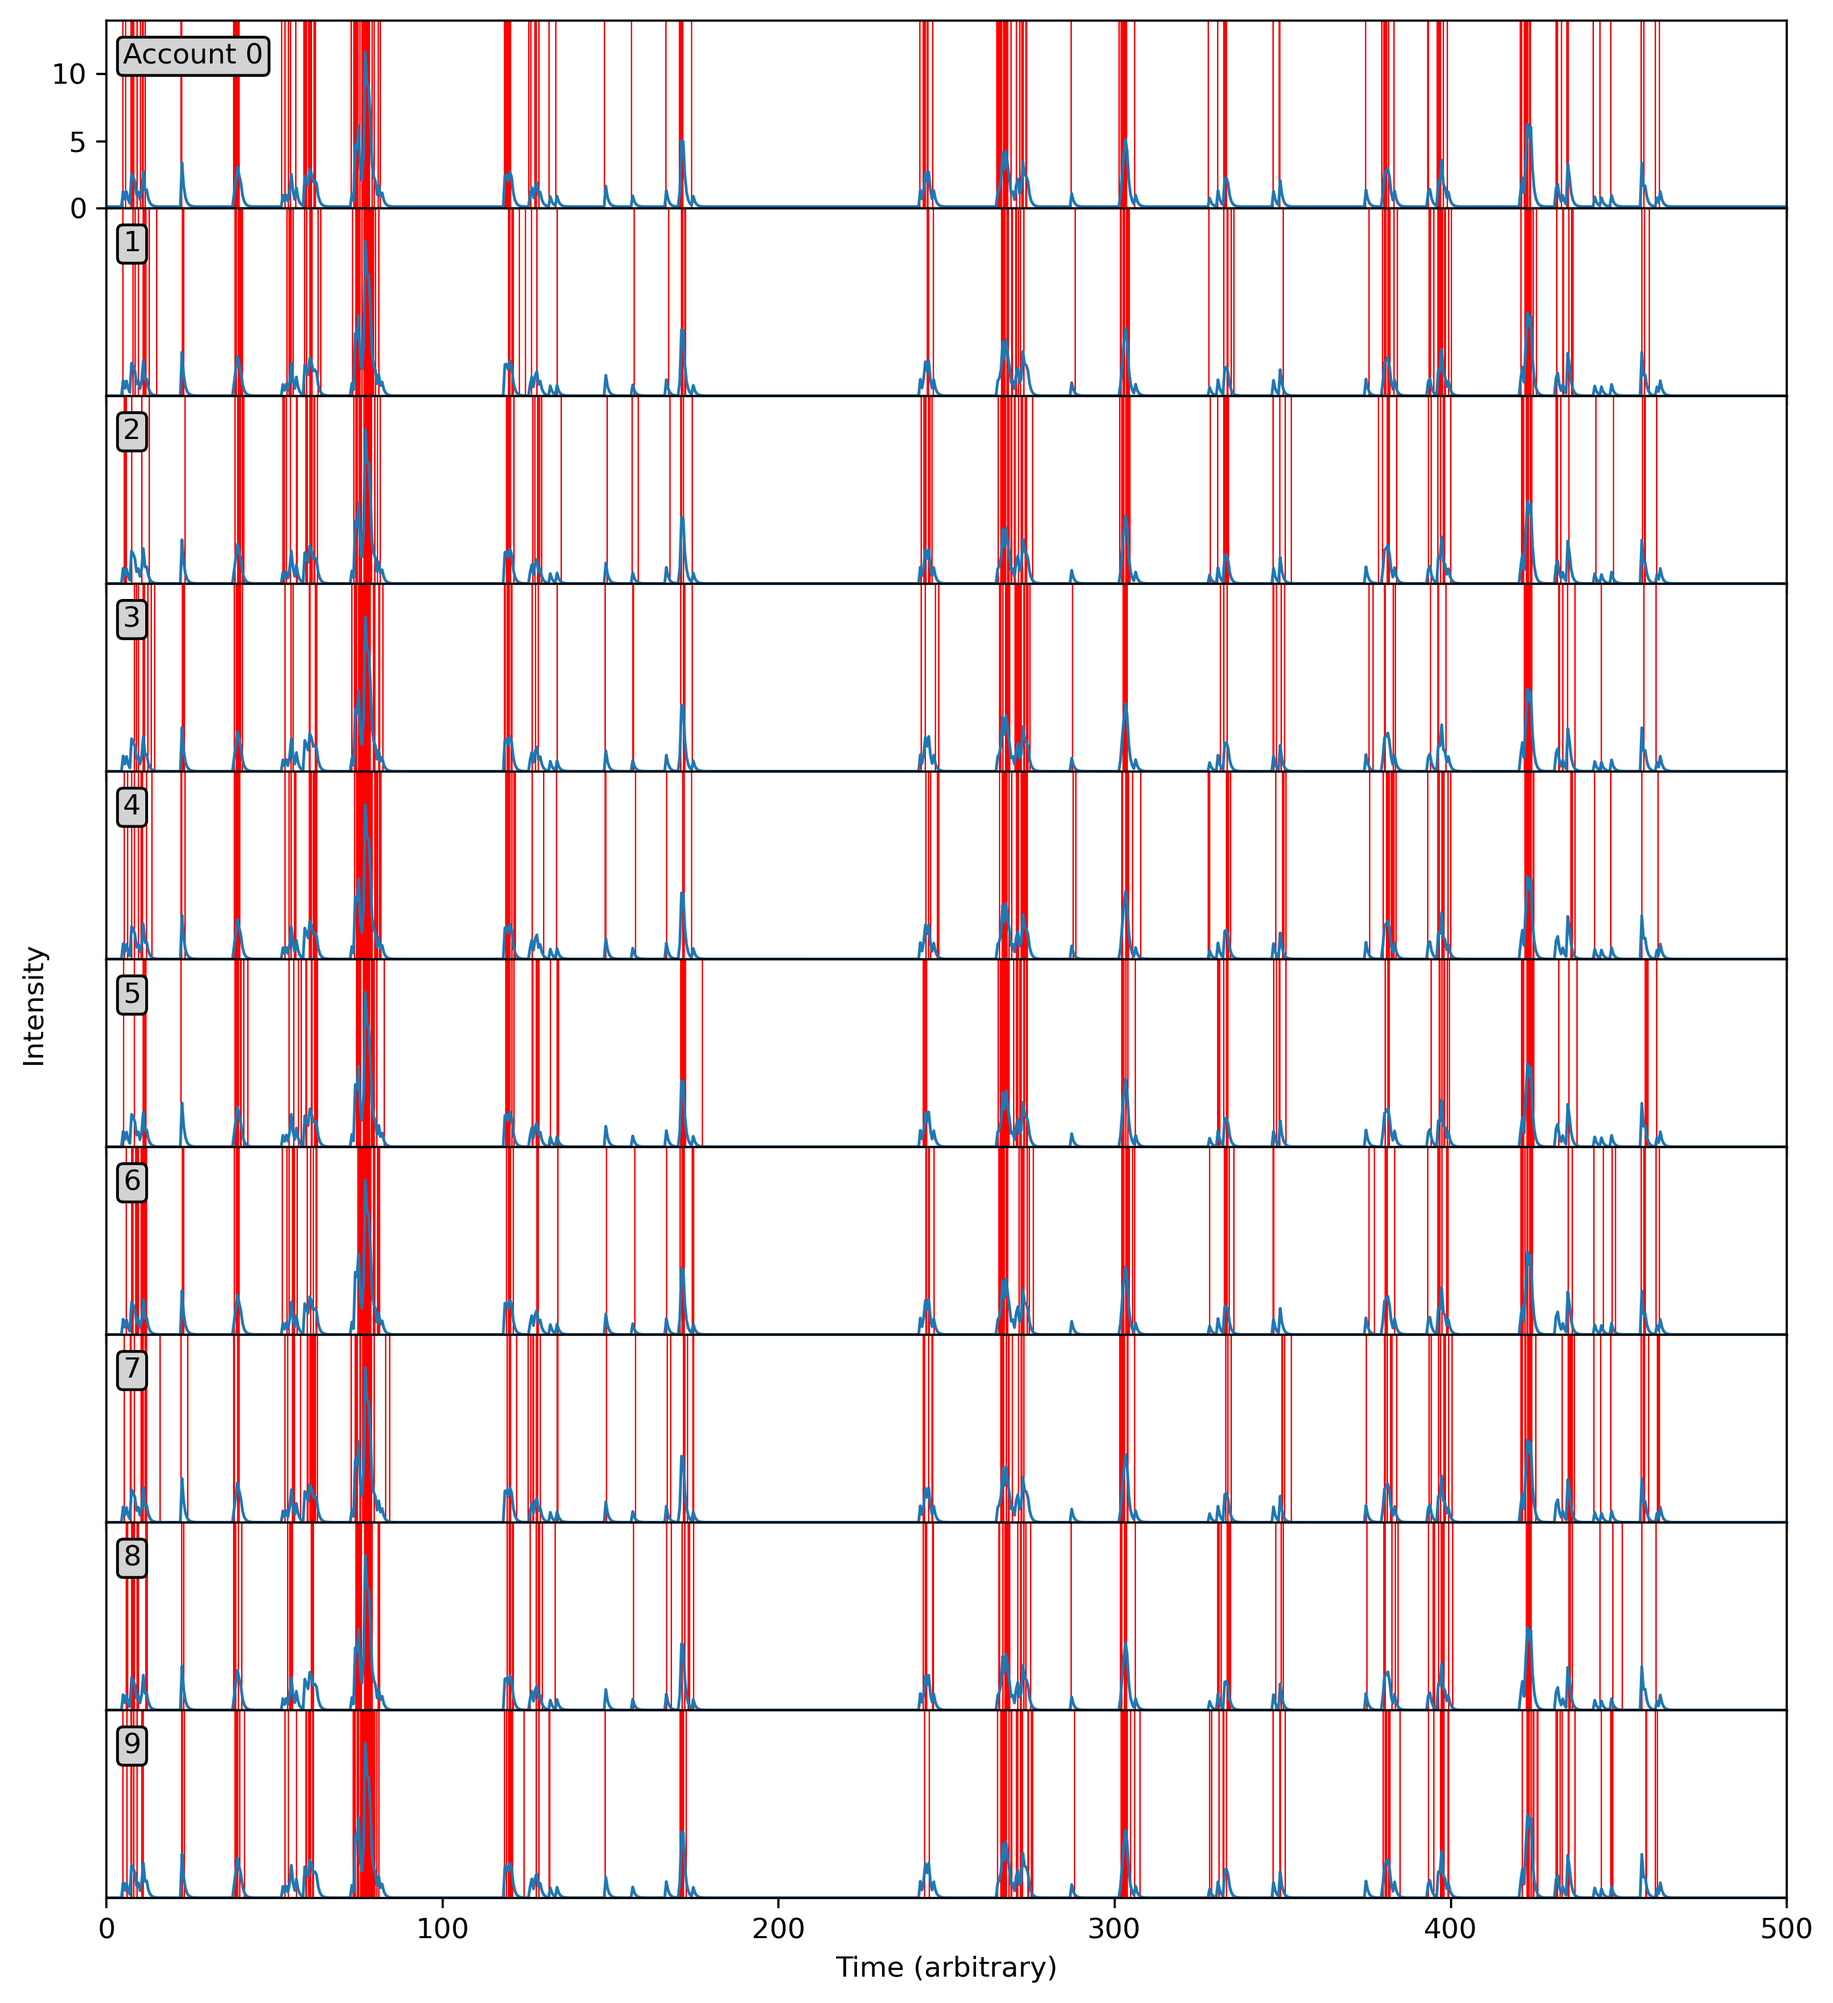
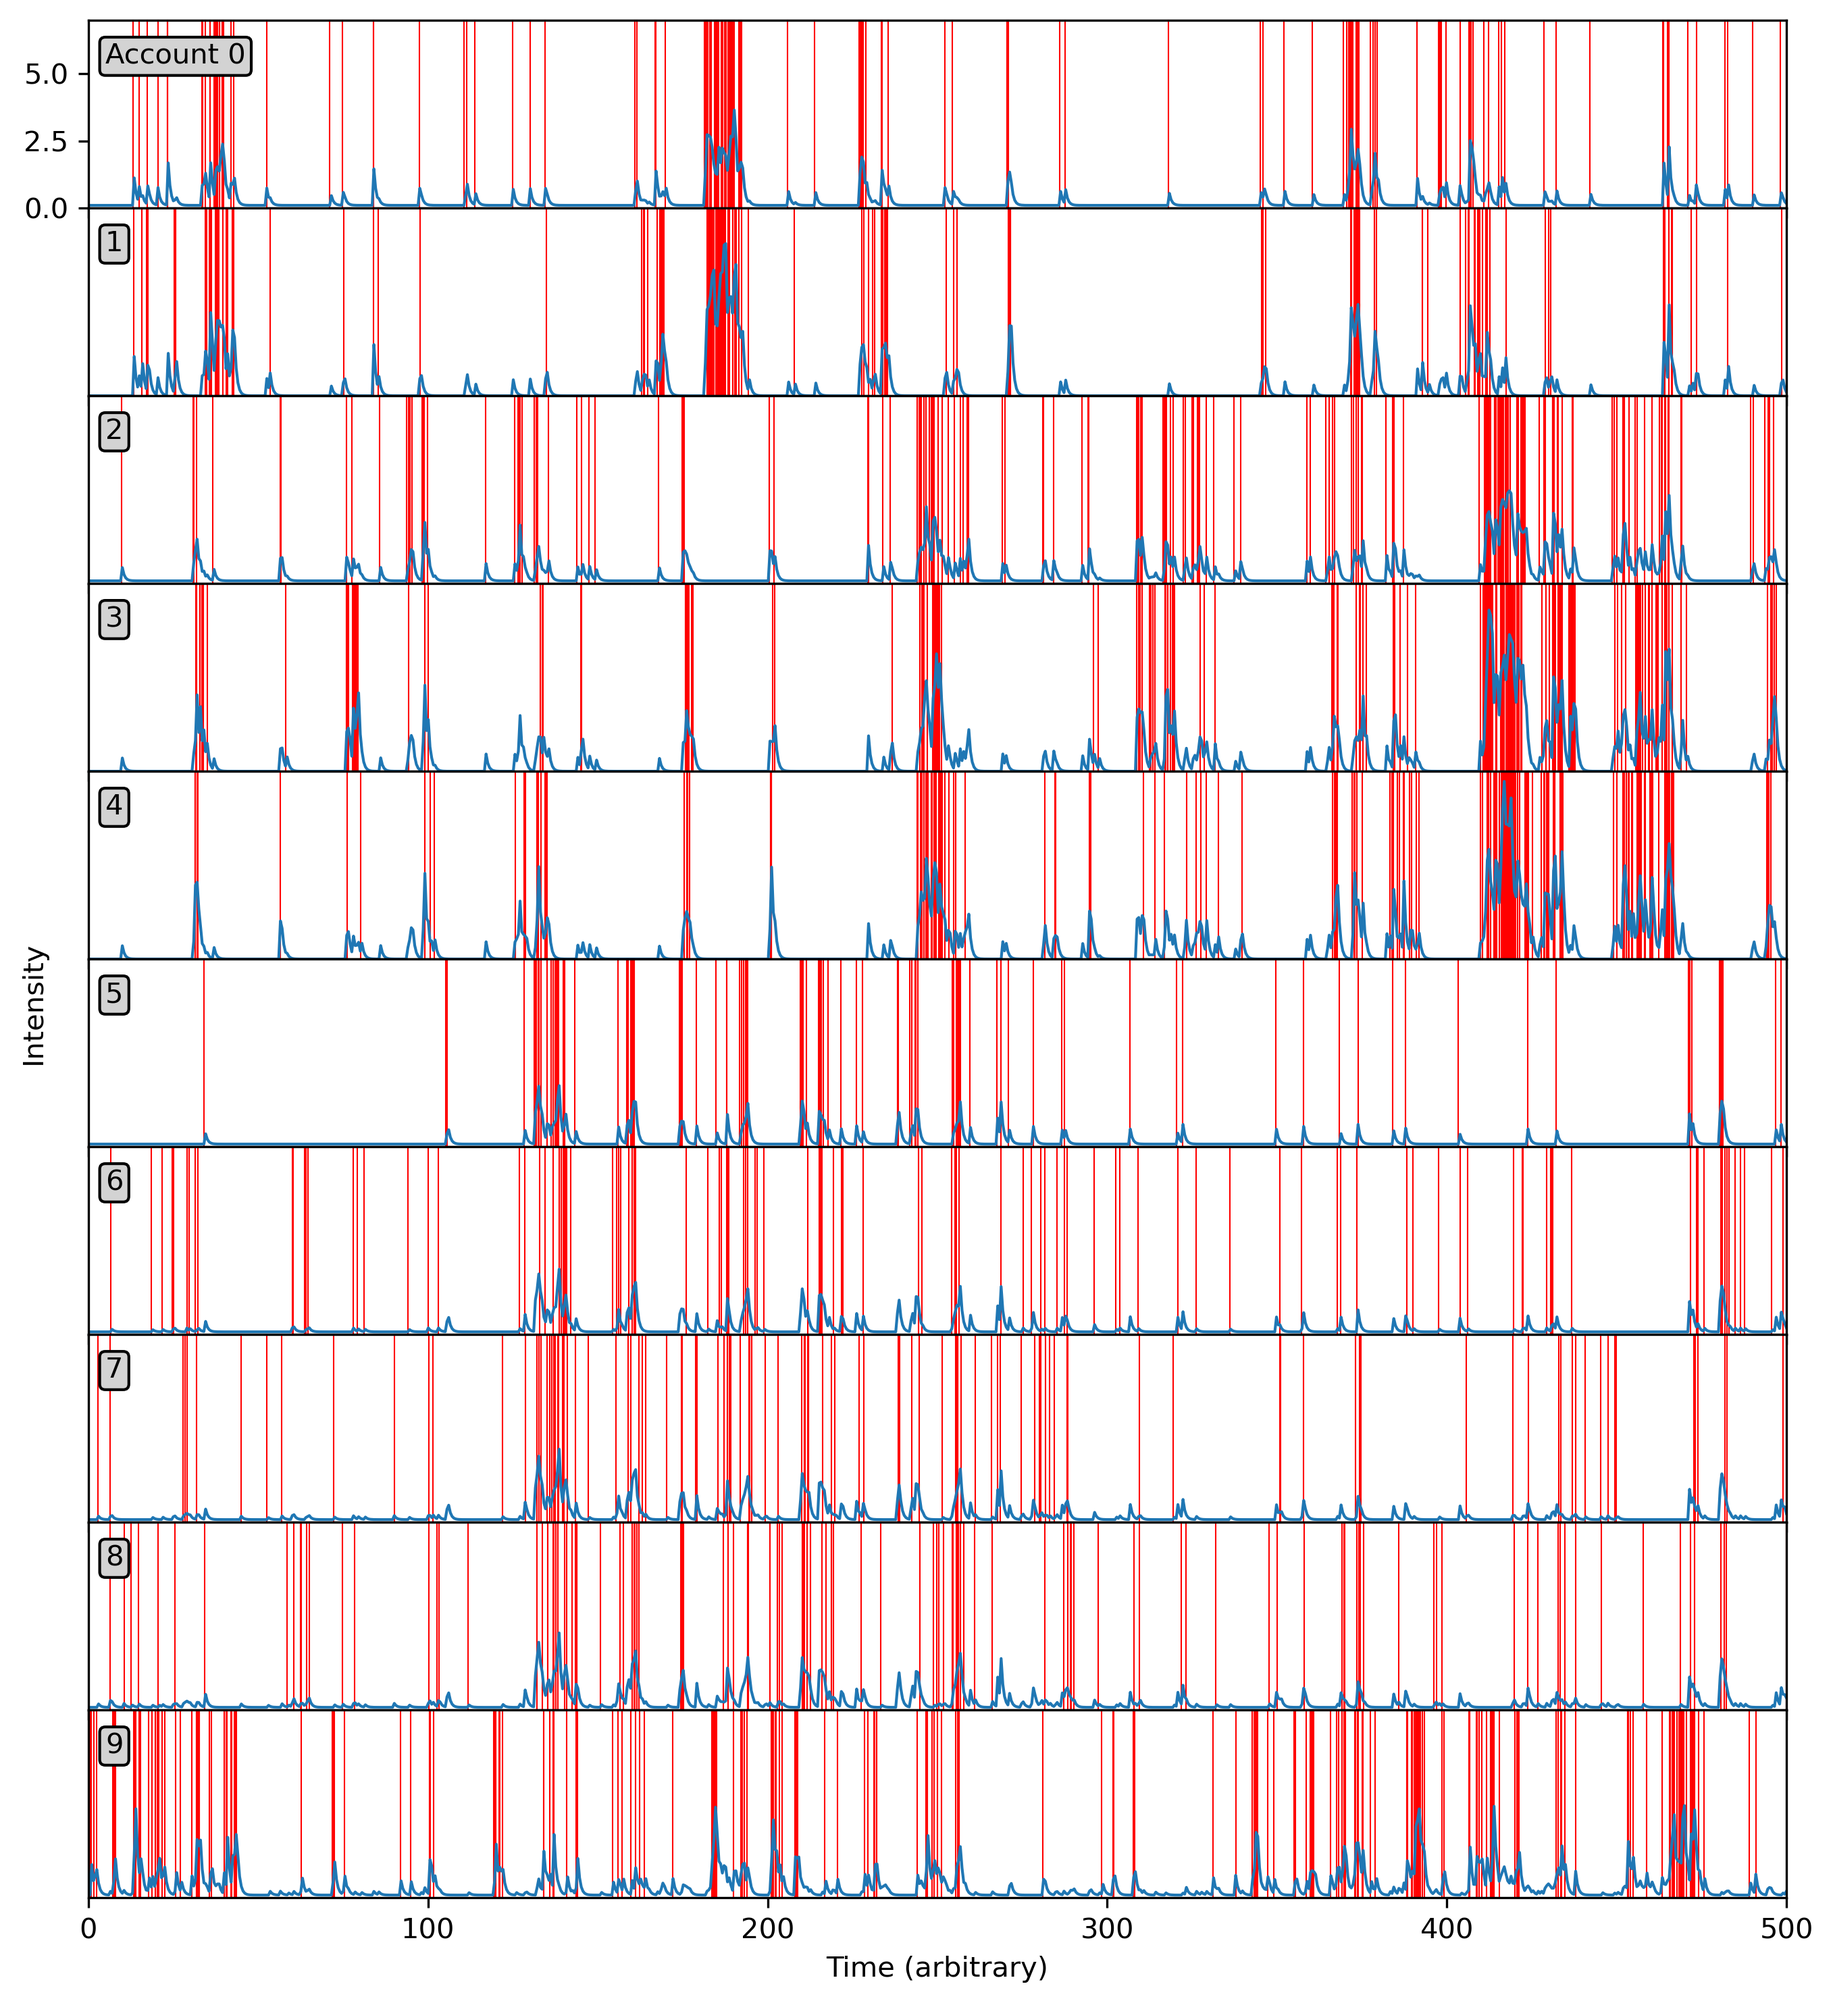
fixed mu grad

Changed region(s): [[0.031, 0.0, 0.9595, 0.9926], [0.9595, 0.2481, 0.9904, 0.4032], [0.9595, 0.4343, 0.9904, 0.4963]]

diff --git a/src/hawkes/models/hawkes_base.py b/src/hawkes/models/hawkes_base.py
@@ -84,6 +84,7 @@ class HawkesNLL(torch.autograd.Function):
 
         intensity, gamma, ti, mi = ctx.saved_tensors
         M, K, T = ctx.M, ctx.K, ctx.T
+        N = ti.shape[1]
 
         dti = ti - torch.cat([ti[:, 0:1, :], ti[:, 0:-1, :]], dim=1)  # Shape: [1, N, 1]
         exp_decay = torch.exp(-gamma * dti).permute(2, 1, 0)  # Shape: [K, N, 1]
@@ -165,18 +166,25 @@ class HawkesNLL(torch.autograd.Function):
         #         )
 
         # Compute mu gradient; only depends on each node type's intensity
-        mu_grad = (
-            torch.tensor(
-                [λp.reciprocal().sum() for λp in intensity_split], device=ti.device
-            )
-            - T
+        mu_grad = torch.tensor(
+            [λp.reciprocal().sum() - T for λp in intensity_split], device=ti.device
         )  # Shape: [M]
 
+        # DEBUG: debugging mu_grad
         # print(mu_grad)
         # _mu_grad = [-T for _ in range(M)]
         # for i, m in enumerate(mi):
         #     _mu_grad[m] += 1 / intensity[i]
         # print(torch.tensor(_mu_grad, device=ti.device))
+        # exit(1)
+        # cts = [0] * M
+        # for p in range(M):
+        #     for m in mi:
+        #         if m == p:
+        #             cts[p] += 1
+        # for s, i in zip(states_split, intensity_split):
+        #     print(s.shape, i.shape)
+        # print(cts)
         # exit(1)
 
         # Compute alpha gradient components using intensity and prefix matrices
@@ -190,7 +198,7 @@ class HawkesNLL(torch.autograd.Function):
         exp_decay_sum = torch.stack(
             [-torch.expm1(-gamma * (T - tiq)).sum(dim=1) for tiq in ti_split],
             dim=1,
-        )  # Shape: [1, M, K]
+        )  # Shape: [M, K]
         alpha_grad = (intensity_state_sum - exp_decay_sum).permute(2, 0, 1)
 
         # TODO: Handle parametrized gamma case
@@ -199,10 +207,10 @@ class HawkesNLL(torch.autograd.Function):
         # print(mu_grad, alpha_grad)
         # exit(1)
 
-        # Return negative of log-likelihood gradient
+        # Return negative of log-likelihood gradient scaled by 1/N
         return (
-            -mu_grad * grad_output,
-            -alpha_grad * grad_output,
+            -mu_grad * grad_output / N,
+            -alpha_grad * grad_output / N,
             gamma_grad,
         ) + (None,) * 7
 
@@ -388,13 +396,13 @@ class HawkesBase(torch.nn.Module, ABC):
 
             # Calculate NLL across entire data and perform the backward pass
             nll = self.nll(T, ti, mi)
-            torchviz.make_dot(
-                nll,
-                params=dict(list(self.named_parameters())),
-                show_attrs=True,
-                show_saved=True,
-            ).render("autograd", format="png")
-            nll.backward()
+            # torchviz.make_dot(
+            #     nll,
+            #     params=dict(list(self.named_parameters())),
+            #     show_attrs=True,
+            #     show_saved=True,
+            # ).render("autograd", format="png")
+            # nll.backward()
             # nll = self._compute_nll(
             #     T, ti, mi, batch_size=fit_config.batch_size, compute_backward=True
             # )
@@ -657,6 +665,7 @@ class HawkesBase(torch.nn.Module, ABC):
         ti = ti[mask].reshape(1, -1, 1)
         mi = mi[mask.squeeze(0, 2)]
 
+        # alphas = self.alpha[:, :, mi].permute(2, 1, 0)[None]
         alphas = self.alpha[:, mi].permute(1, 2, 0)[None]
         ti = ti[..., None]
 
@@ -813,16 +822,22 @@ class HawkesBase(torch.nn.Module, ABC):
 
     def intensity_at_t(self, t, ti, mi, R: torch.Tensor = None):
         """
-        Computes the intensity at (and including) times that are not necessarily events. This is useful for plotting the intensity function of an event sequence.
+                Computes the intensity at (and including) times that are not necessarily events. This is useful for plotting the intensity function of an event sequence.
 
-        Args:
-            t: Tensor of times to compute right-limit intensities at.
-            ti: Tensor of event times.
-            mi: Tensor of event types.
-            R: Tensor of intensity states saved during intensity calculation at each ti and mi. If None, this is computed internally.
+                Args:
+                    t: Tensor of times tI forgot to say that this explanation does make sense in terms of the likelihood itself:
+        image.png
 
-        Returns:
-            Intensities across all nodes at each time t, of shape (t.shape[0], M).
+        But not directly in terms of the log likelihood, I suppose.
+
+        Best,
+        Ahmero compute right-limit intensities at.
+                    ti: Tensor of event times.
+                    mi: Tensor of event types.
+                    R: Tensor of intensity states saved during intensity calculation at each ti and mi. If None, this is computed internally.
+
+                Returns:
+                    Intensities across all nodes at each time t, of shape (t.shape[0], M).
         """
 
         if R is None:

diff --git a/examples/fit_model.py b/examples/fit_model.py
@@ -94,7 +94,6 @@ match args.model_type:
             gamma=torch.tensor(est_gamma).to(args.device),
             init_scale=est_init_scale,
             gamma_param=False,  # TODO: Disable this
-            transformation=config.IDENTITY,
         ).to(args.device)
     case "low-rank":
         model_est = models.HawkesLowRank(
